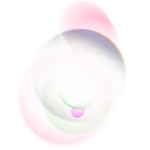
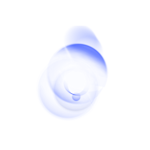
update laser effects

diff --git a/src/helpers/const.ts b/src/helpers/const.ts
@@ -7,6 +7,7 @@ import ruby from "../static/light-hit-04.png"
 import rose from "../static/light-hit-05.png"
 import jade from "../static/light-hit-06.png"
 import emerald from "../static/light-hit-07.png"
+import violet from "../static/light-hit-08.png"
 
 export const LASERS = new Map<Laser, LaserMeta>([
   [Laser.Gold, { src: gold, name: "gold" }],
@@ -16,6 +17,7 @@ export const LASERS = new Map<Laser, LaserMeta>([
   [Laser.Rose, { src: rose, name: "rose" }],
   [Laser.Jade, { src: jade, name: "jade" }],
   [Laser.Emerald, { src: emerald, name: "emerald" }],
+  [Laser.Violet, { src: violet, name: "violet" }],
 ])
 
 export const STAGE_CONFIG = {

diff --git a/src/containers/Info.tsx b/src/containers/Info.tsx
@@ -30,10 +30,10 @@ const Info: React.FC<Props> = ({ onDrop }: Props) => {
 
   return (
     <Wrapper>
-      <Title>Lazer Yourself</Title>
+      <Title>Laser Yourself</Title>
       <Text>
         Are you a true brrrrliever? <br />
-        Choose your lazer eyes and tell the world!
+        Choose your laser eyes and tell the world!
       </Text>
 
       <Button {...getRootProps()}>

diff --git a/public/index.html b/public/index.html
@@ -24,7 +24,7 @@
       work correctly both with client-side routing and a non-root public URL.
       Learn how to configure a non-root public URL by running `npm run build`.
     -->
-    <title>Crypto Lazer Eyes</title>
+    <title>Crypto Laser Eyes</title>
   </head>
   <body>
     <noscript>You need to enable JavaScript to run this app.</noscript>

diff --git a/src/containers/Header.tsx b/src/containers/Header.tsx
@@ -72,7 +72,7 @@ const Header: React.FC<Props> = () => {
           <Col>
             <Logo>
               <img src="images/logo.svg" alt="" />
-              crypto<span>lazereyes</span>
+              crypto<span>lasereyes</span>
             </Logo>
           </Col>
           <Col>

diff --git a/src/helpers/types.ts b/src/helpers/types.ts
@@ -6,6 +6,7 @@ export enum Laser {
   Rose,
   Jade,
   Emerald,
+  Violet,
 }
 
 export interface LaserMeta {
